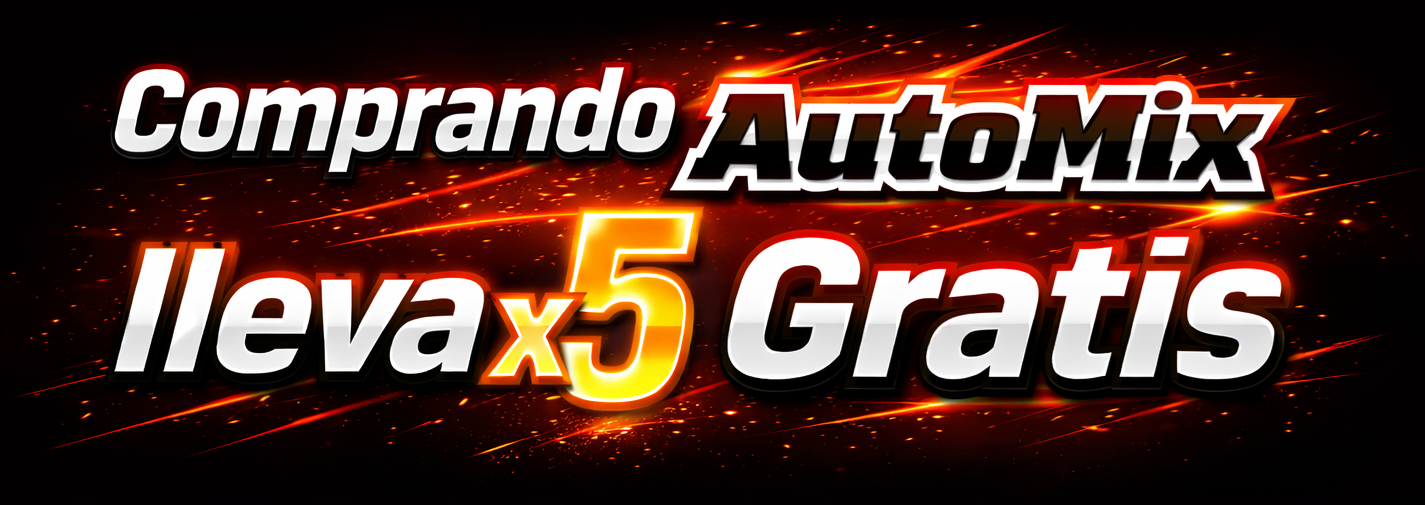
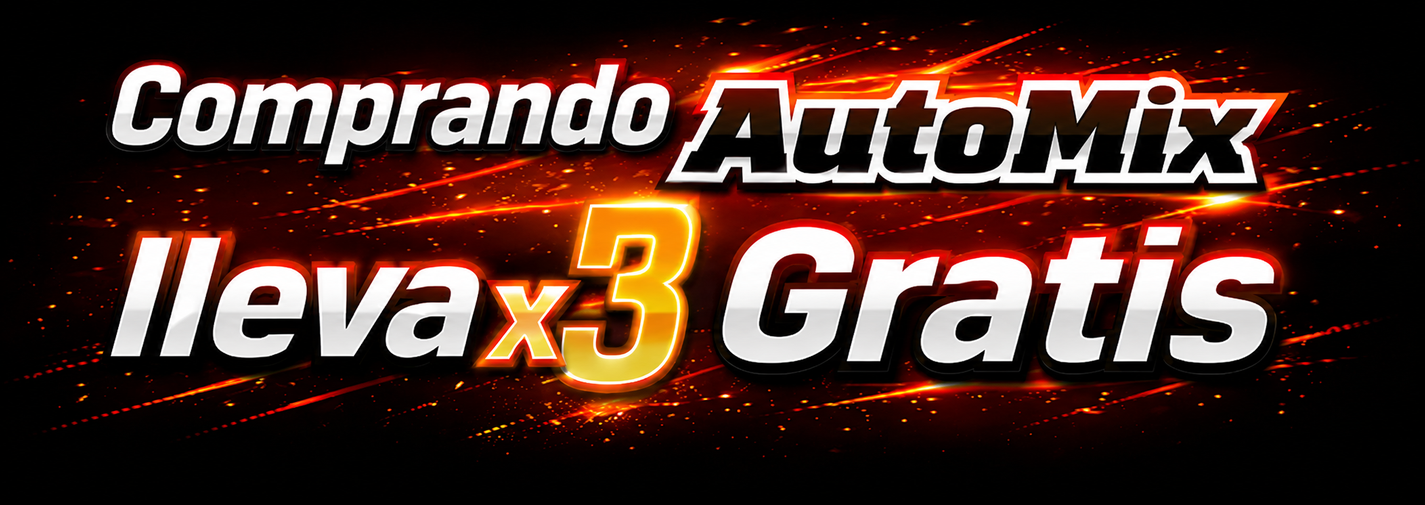
Add files via upload

diff --git a/js/app.js b/js/app.js
@@ -201,7 +201,7 @@ function buildAutoGranelFicha(){
   d.innerHTML = `
     <div class="ag-title-row">
       <h4 class="lb-ficha-title ag-title-main">Critical xxl AUTO GRANEL</h4>
-      <h4 class="lb-ficha-title ag-title-qty">x5 Semillas</h4>
+      <h4 class="lb-ficha-title ag-title-qty">x3 Semillas</h4>
     </div>
     <p class="ag-desc">Semillas a Granel de Automáticas Critical XXL Autofloreciente.<br><em>*las semillas se entregan en Tubos Eppendorf de 1.5 ml.</em></p>`;
   return d;
@@ -311,7 +311,7 @@ try{
       } else if(folder === '02Genext' && id === '02'){
         msg = 'Hola NOVA Seeds, quisiera comprar Psycho XXL AutoMix (x12 semillas). ¿Hay stock disponible?';
       } else if(folder === '02Genext' && id === '03'){
-        msg = 'Hola NOVA Seeds, quisiera comprar x5 AUTOGRANEL (Critical XXL Automáticas). ¿Cómo coordinamos?';
+        msg = 'Hola NOVA Seeds, quisiera comprar x3 AUTOGRANEL (Critical XXL Automáticas). ¿Cómo coordinamos?';
       } else {
         msg = 'Hola NOVA Seeds, quisiera realizar una compra. ¿Me podrían ayudar?';
       }
@@ -525,7 +525,7 @@ document.addEventListener('DOMContentLoaded', function(){
     DATA_FICHAS["02Genext"]["03"] = [
       {
         titulo: "Critical xxl AUTO GRANEL",
-        qty: "x5 Semillas"
+        qty: "x3 Semillas"
       }
     ];
   }catch(e){}

diff --git a/index.html b/index.html
@@ -58,7 +58,7 @@
 	  <div class="promo-strip__copy" aria-label="Detalle de promoción">
 	    <span class="promo-strip__copy-text">Comprando cualquier AutoMix</span>
 	    <span class="promo-strip__copy-text">llevate</span>
-	    <span class="promo-strip__copy-x5">x5</span>
+	    <span class="promo-strip__copy-x3">x3</span>
 	    <span class="promo-strip__copy-auto">AUTOGRANEL</span>
 	  </div>
 

diff --git a/js/app.min.js b/js/app.min.js
@@ -343,7 +343,7 @@ document.addEventListener('DOMContentLoaded', function(){
     DATA_FICHAS["02Genext"]["03"] = [
       {
         titulo: "Critical xxl AUTO GRANEL",
-        qty: "x5 Semillas"
+        qty: "x3 Semillas"
       }
     ];
   }catch(e){}

diff --git a/css/styles.css b/css/styles.css
@@ -2813,7 +2813,7 @@ body.tutorial-page{ overflow-x: hidden; }
 }
 
 .promo-strip__copy-text{ display: inline-block; }
-.promo-strip__copy-x5{
+.promo-strip__copy-x3{
   color: #ffb300;
   font-size: 1.12em;
   padding: 0 2px;

diff --git a/sw.js b/sw.js
@@ -1,5 +1,5 @@
 /* NOVA Seeds - Service Worker (PWA) */
-const CACHE_NAME = 'novaseeds-shell-v33';
+const CACHE_NAME = 'novaseeds-shell-v34';
 const APP_SHELL = [
   './',
   './index.html',
